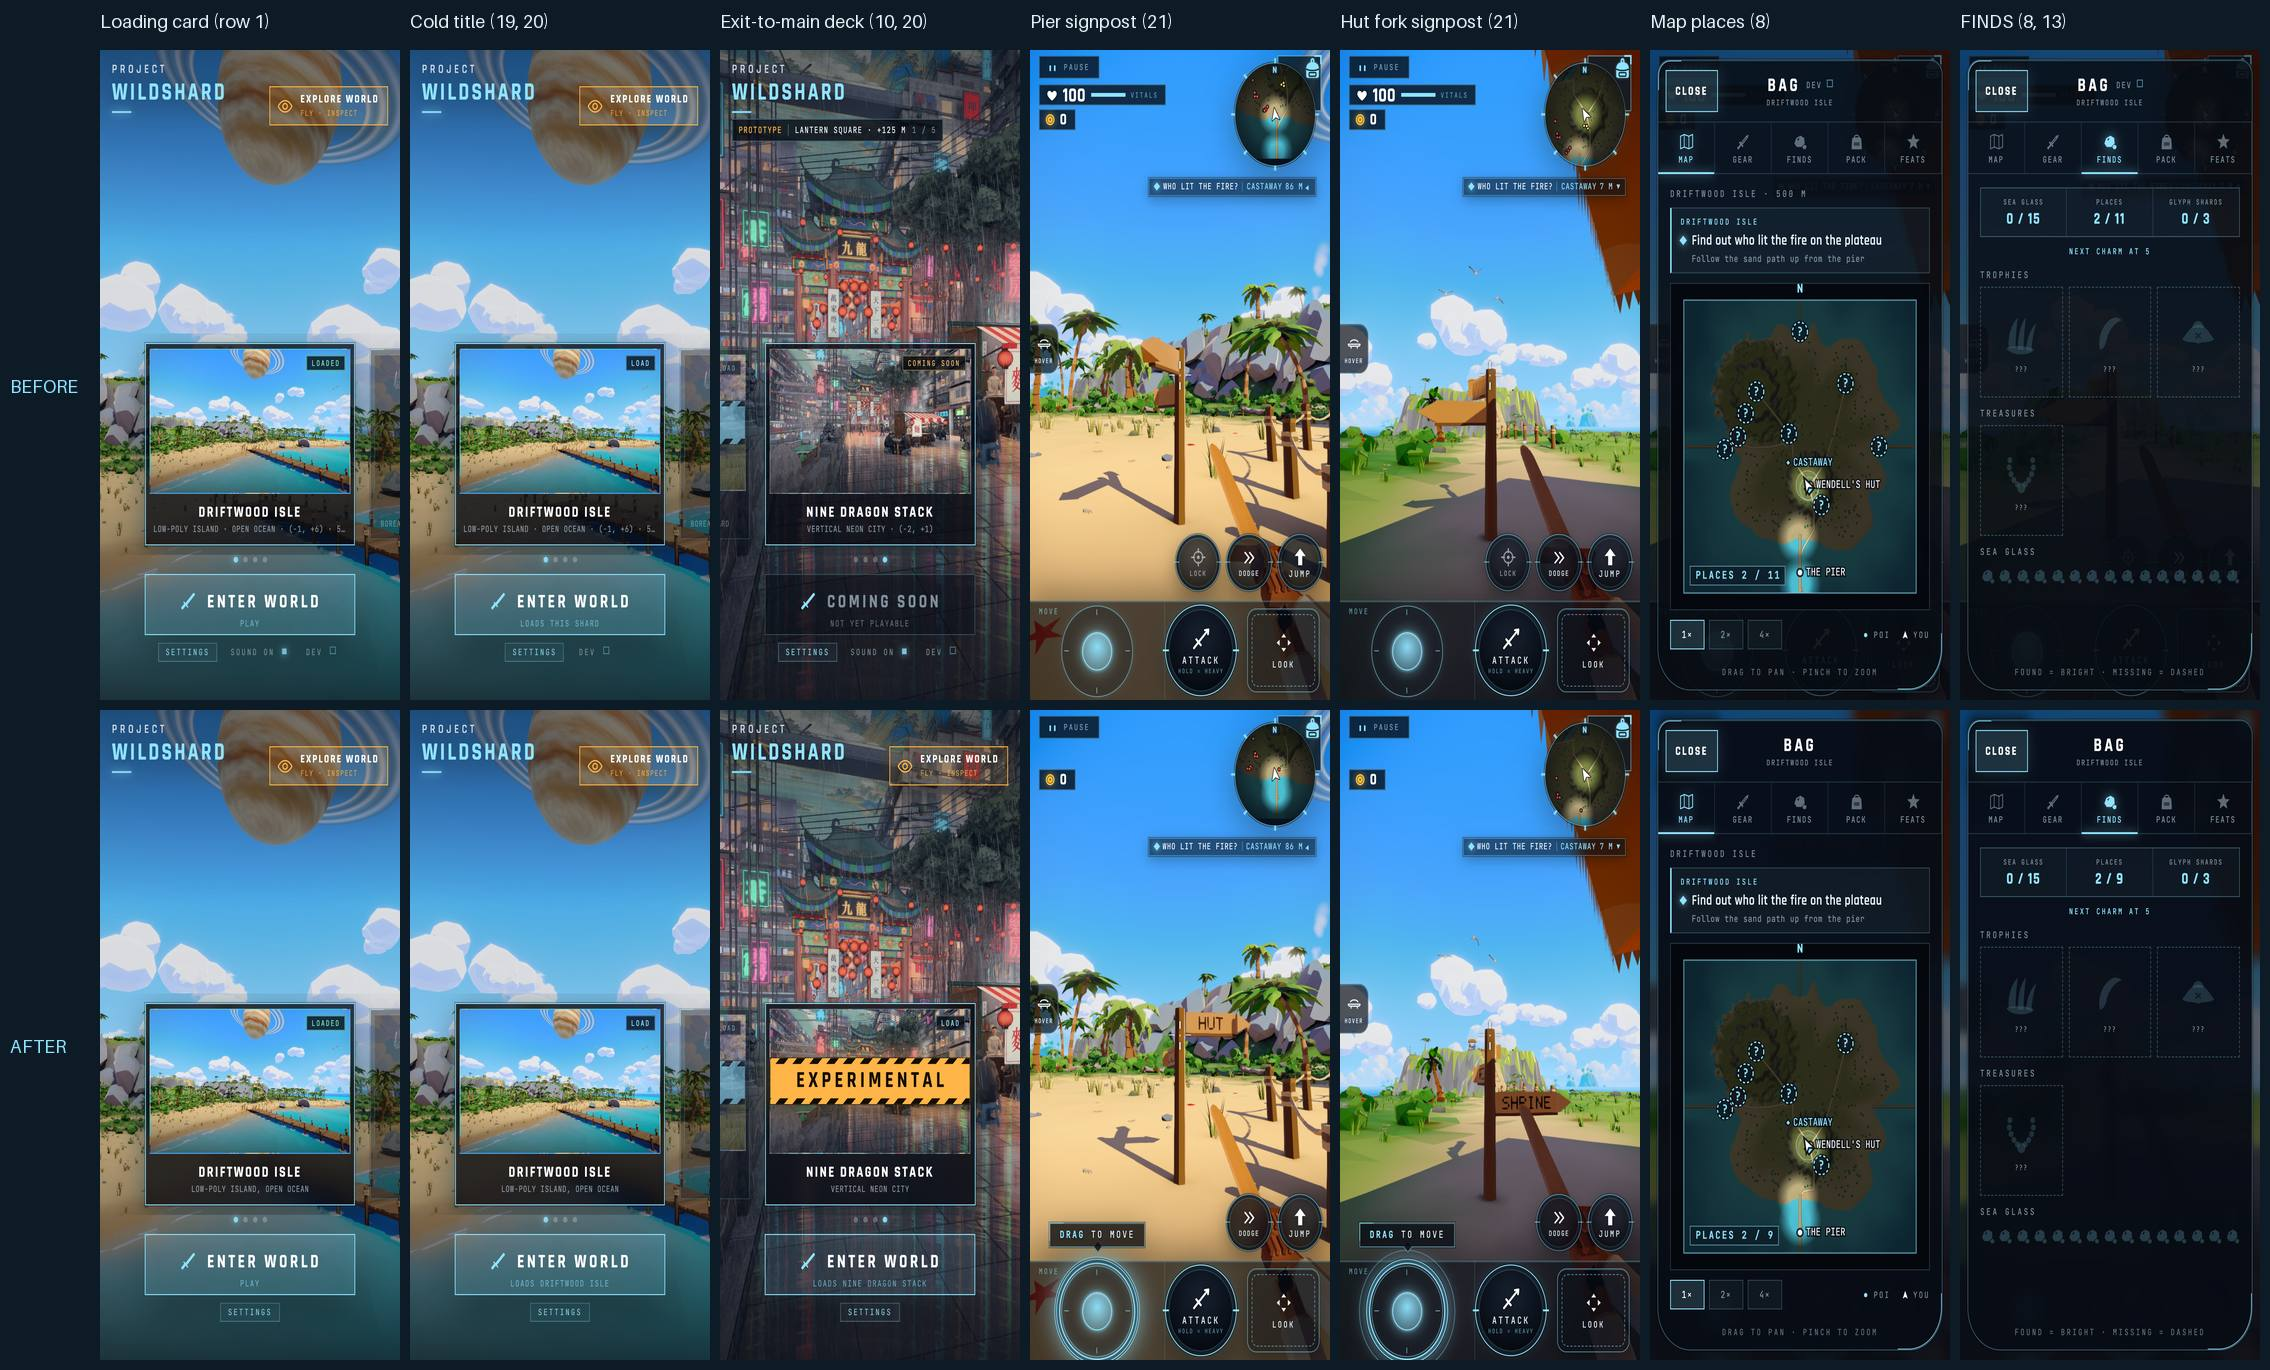
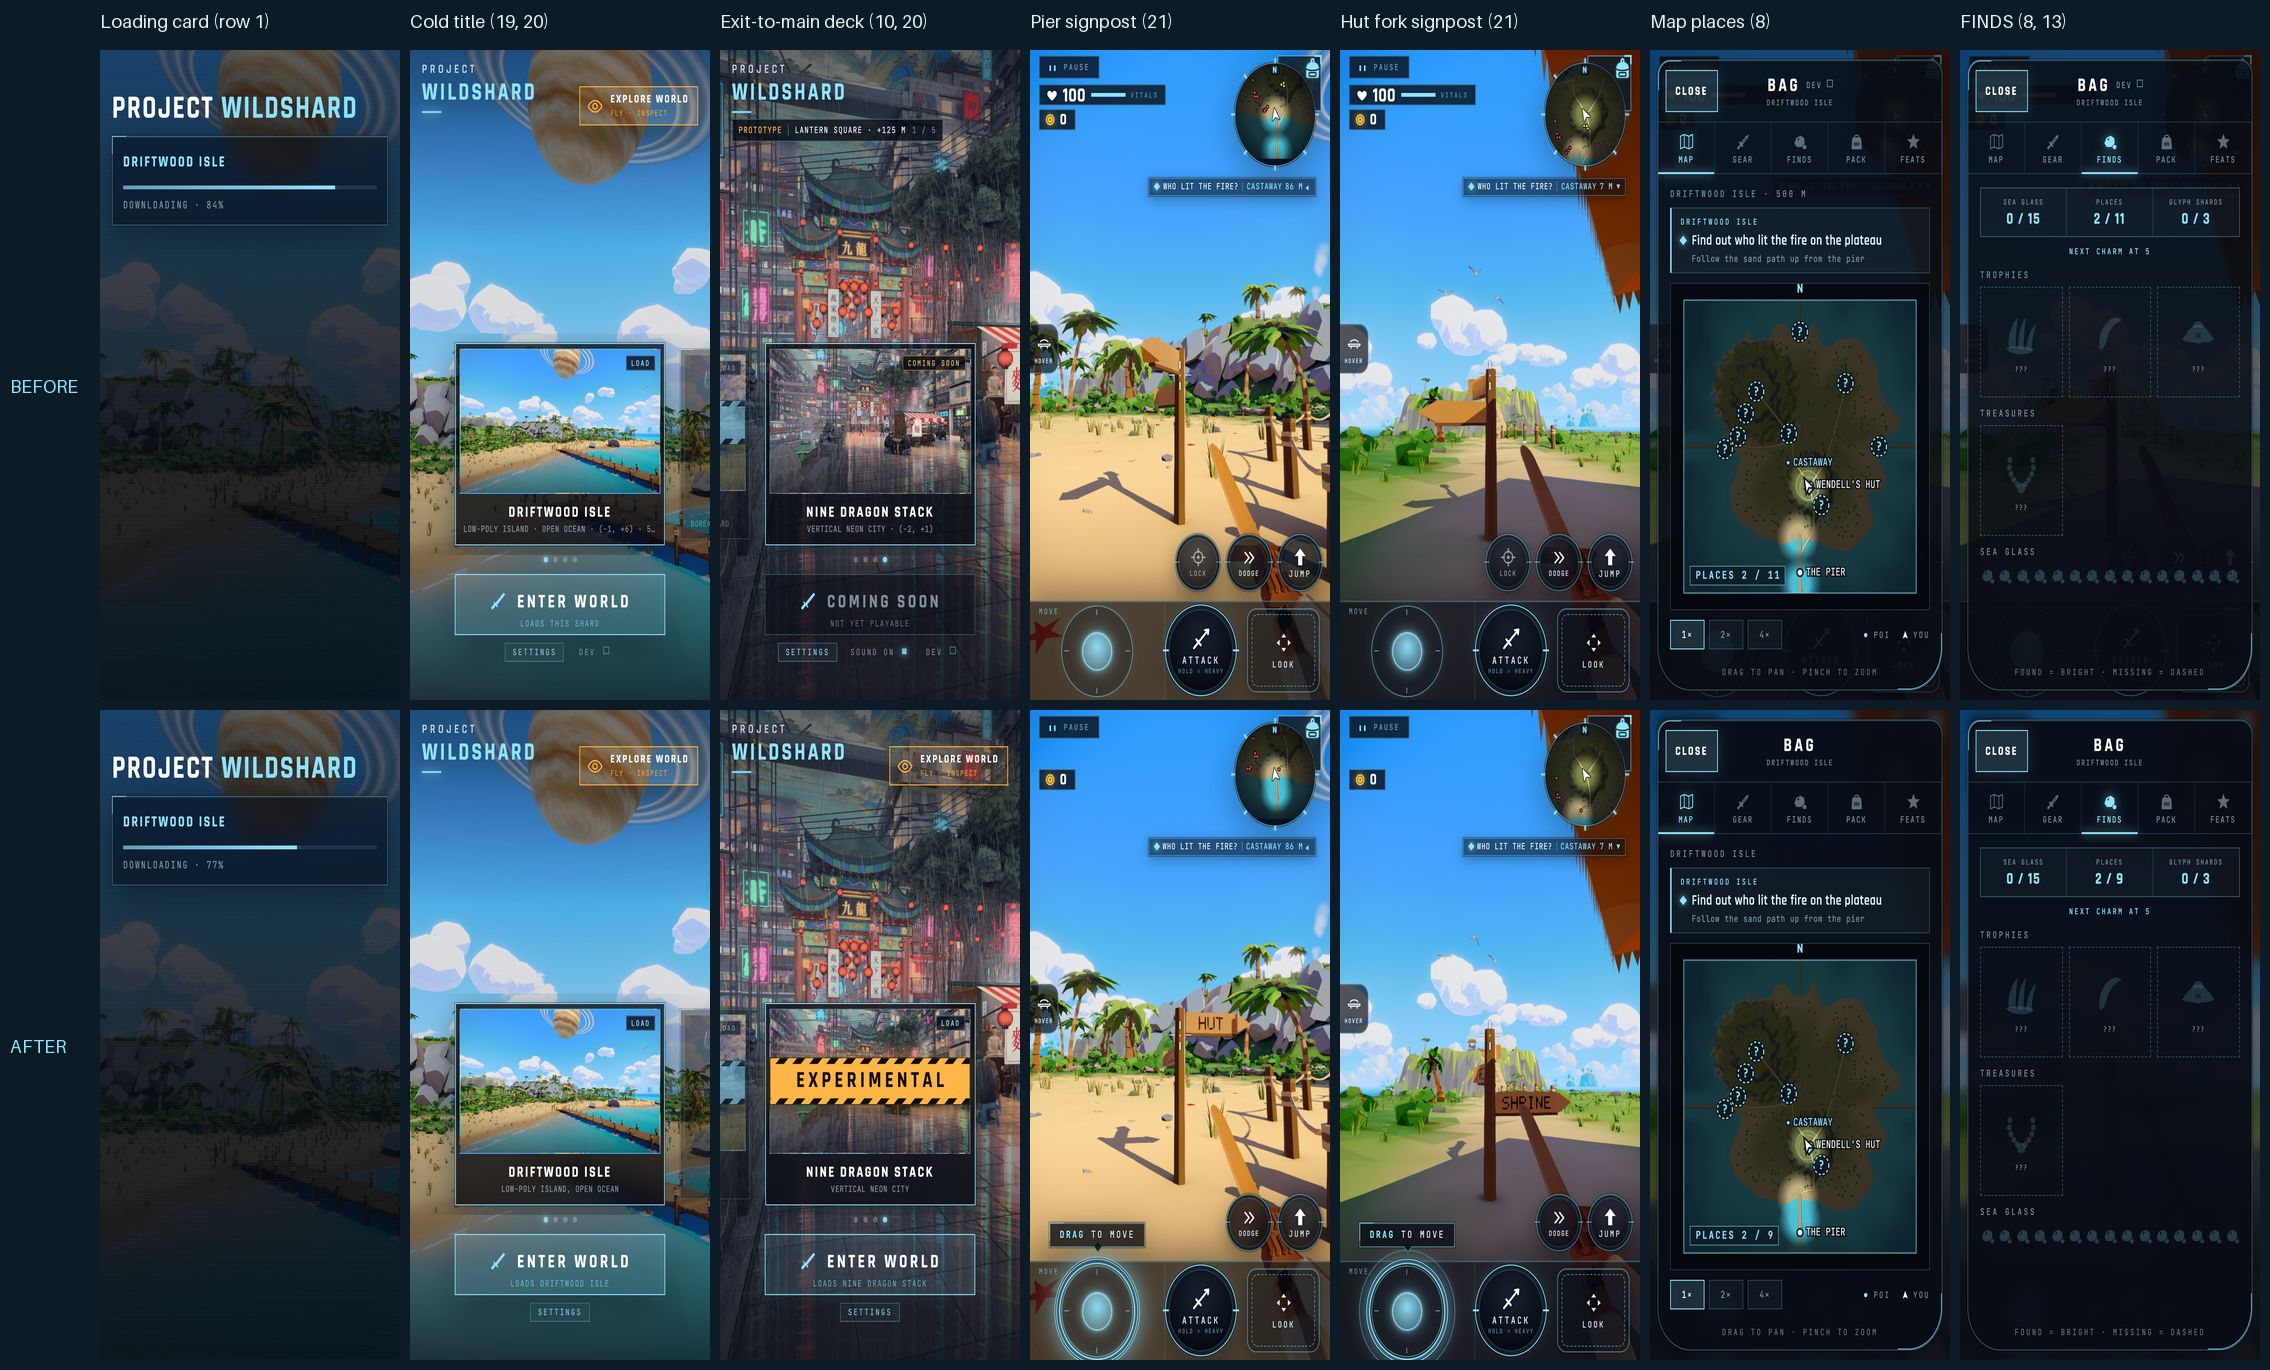
E318: walk baseline 0 stuck after the bear move / deer cut; the sheet's loading-card column re-shot
Claude-Session: https://claude.ai/code/session_01A8vxoh1mFb5ZnyHw6cdaPw

Changed region(s): [[0.0308, 0.0307, 0.185, 1.0]]

diff --git a/docs/tasks/asks/E318.md b/docs/tasks/asks/E318.md
@@ -4,4 +4,4 @@
 **Ask:** Driftwood slop sweep: list every placeholder, dead or half-built thing still in the shard with a one-line delete/keep so Jake can cut them in one pass — Jake: 'the more we can delete and simplify, the better … too much placeholder shit floating around'
 
 
-**Cuts built (2026-09-30, E318 subagent)** — every picked row is on main and CI-green: row 1 `c4c35aa2` · rows 4 / 6 / 7 `b23778d0` (4's AR-15 + Pine-only skin drops were E333's `d094dfb9`) · row 8 `d60a1616` + test `54219ce9` · rows 10 / 19 / 20 `e760b30e` · row 21 `5676dfe1` · rows 9 / 14 / 23 `1c04d3f3` · row 18 `cfe90dba` · rows 13 / 17 `5181ce21` · rows 28 / 29 `5466cf64` · rows 24 / 26 `a0629919` · row 25 `ad25f2d3` · E332 note `34046344`. Sheet: `progress/291-e318-slop-cuts.jpg` (before = live `6ca63ec`, after = HEAD `d28b51ac`; iPhone 16 Pro portrait). Left / not done: the sheet's "loading card" column caught the deck, not the card (the load finished inside the 9 s wait; row 1 is a CSS rule, `.ws-load-diagnostics` hidden without `data-dev`); row 27's Cabin / Pond markers — nothing to cut, they are Pine Hollow's data-driven pins and Driftwood has no cabin sites or pond; `physics-baseline --mode=walk` after the bear move / deer cut not run (the browser lane was full; usage limit) — no collider or structure changed (the signposts collide as their posts, as before).
+**Cuts built (2026-09-30, E318 subagent)** — every picked row is on main and CI-green: row 1 `c4c35aa2` · rows 4 / 6 / 7 `b23778d0` (4's AR-15 + Pine-only skin drops were E333's `d094dfb9`) · row 8 `d60a1616` + test `54219ce9` · rows 10 / 19 / 20 `e760b30e` · row 21 `5676dfe1` · rows 9 / 14 / 23 `1c04d3f3` · row 18 `cfe90dba` · rows 13 / 17 `5181ce21` · rows 28 / 29 `5466cf64` · rows 24 / 26 `a0629919` · row 25 `ad25f2d3` · E332 note `34046344`. Sheet: `progress/291-e318-slop-cuts.jpg` (before = live `6ca63ec`, after = HEAD `d28b51ac`; iPhone 16 Pro portrait). Walk baseline after the bear move / deer cut: `progress/physics/e318-8f41c2d-muntguj0.json`, 8 legs, 0 stuck; the navmesh `--check` says Driftwood is up to date. Notes: the sheet's loading-card column shows the card mid-download in both builds — the diagnostics block was not yet filled at that moment in the live build either, so row 1's difference (a CSS rule: `.ws-load-diagnostics` hidden without `data-dev`) is not visible in the shot; row 27's Cabin / Pond markers — nothing to cut: they are Pine Hollow's data-driven pins and Driftwood has no cabin sites or pond (the AR-15 part was E333's `d094dfb9`).
